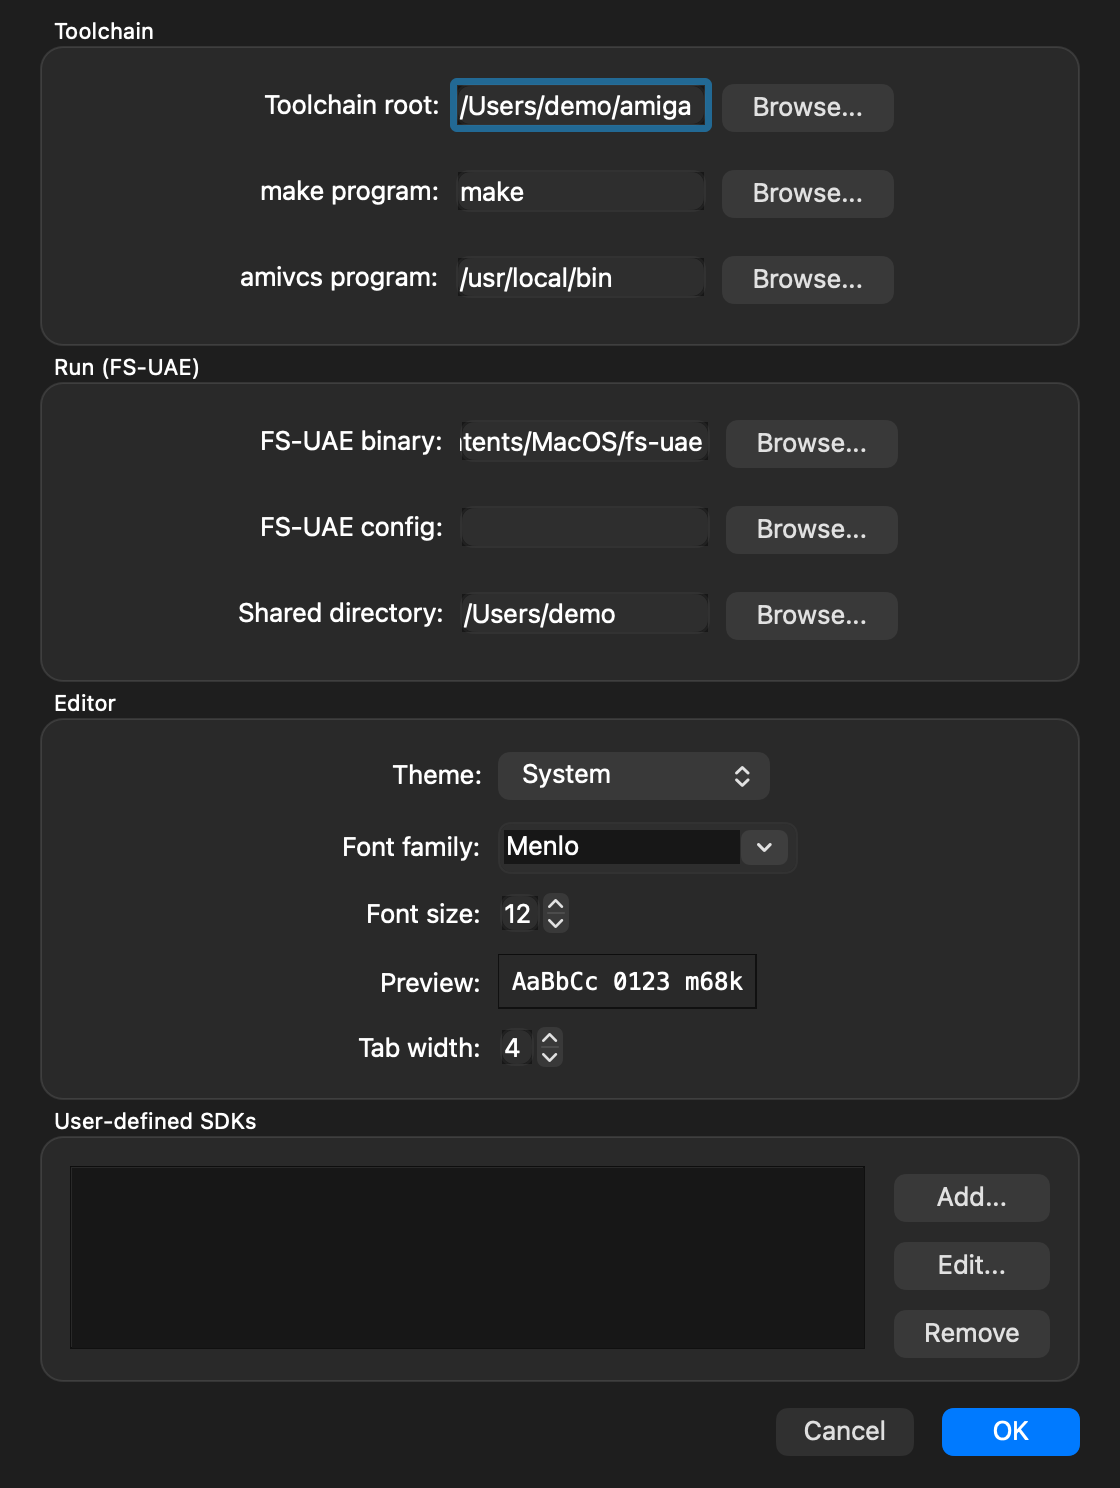
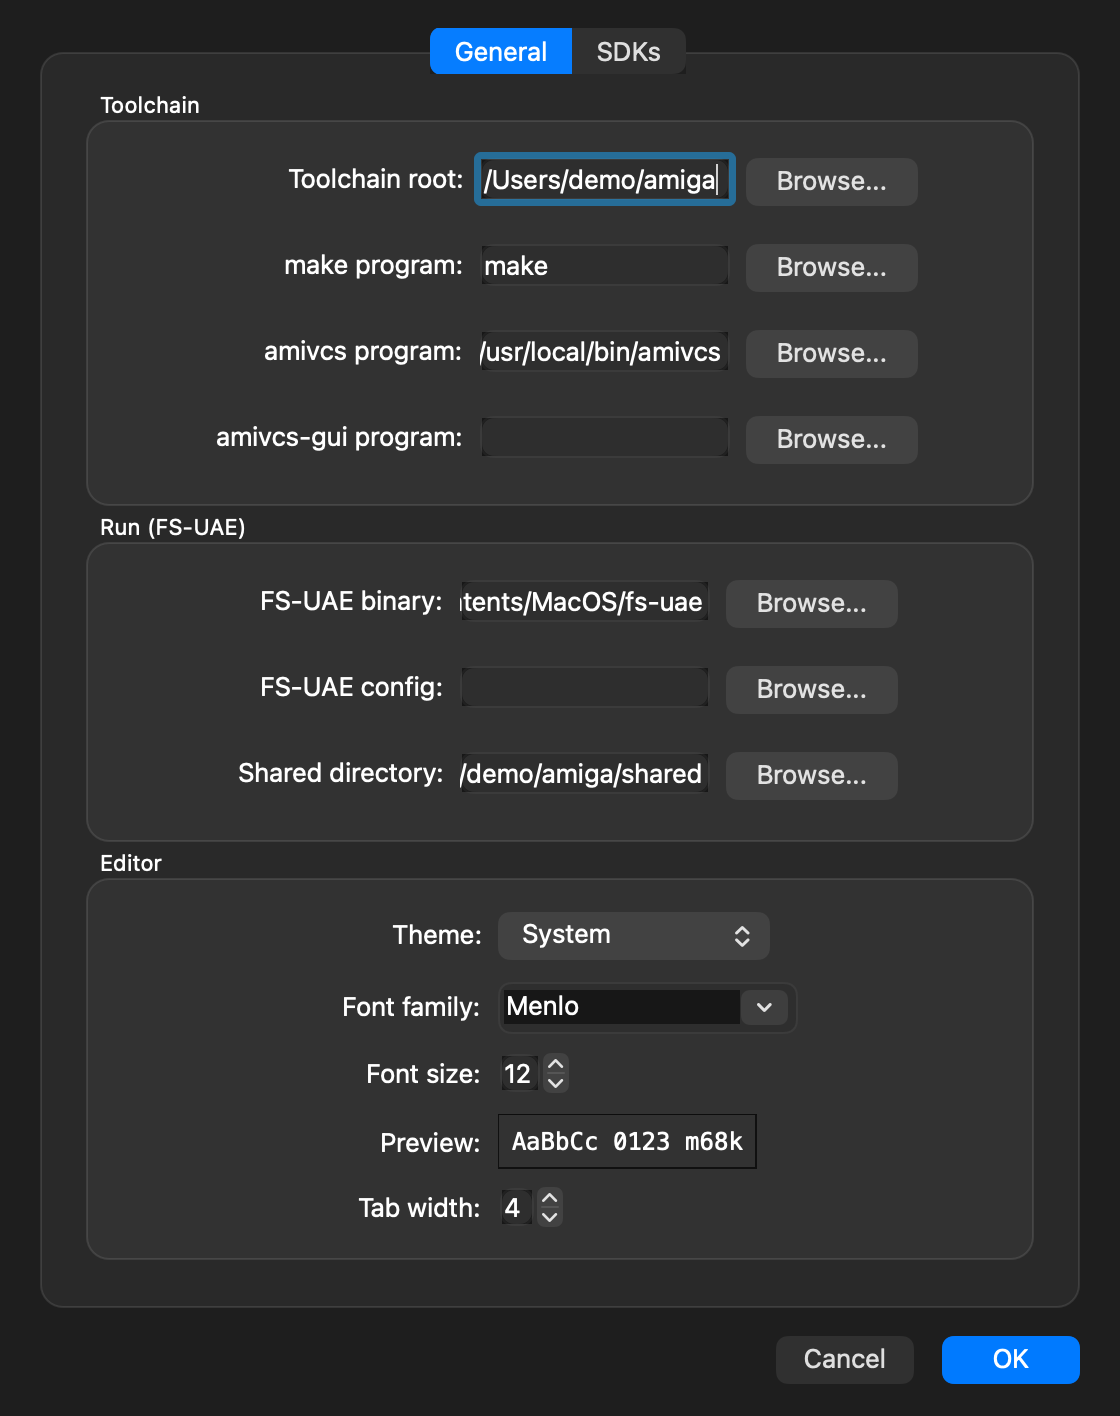
Web-Anleitung 0.11/0.6: neue Bilder amivcs-gui (Qt, Diff/History), IDE-Einstellungen mit SDK-Ordnern, Working-Fenster

diff --git a/website/src/amidevide.html b/website/src/amidevide.html
@@ -28,28 +28,29 @@ Stack 65536</code></pre></li>
 <p>Die Fassung für den Mac gibt es fertig bei den <a href="{{gh:amidevide}}/releases">Releases auf GitHub</a>, für Linux und Windows baust du sie aus den <a href="{{gh:amidevide}}">Quellen</a>. Die Bilder aus der Mac-Fassung auf dieser Seite zeigen, wie sie aussieht; die Bedienung entspricht weitgehend der Amiga-Fassung.</p>
 
 <h2 id="projekt">Ein Projekt anlegen</h2>
-<p>Die Bilder in diesem Abschnitt stammen aus der kommenden Mac-Fassung. Die Menünamen hier gelten für das Amiga-Programm.</p>
+<p>Die Bilder in diesem Abschnitt stammen aus der Mac-Fassung. Die Menünamen hier gelten für das Amiga-Programm.</p>
 <ol class="schritte">
 <li>Wähle <strong>Projekt › Neu…</strong>, dann Ordner, Sprache und Art des Programms.</li>
 <li>Füge über <strong>Projekt › Neue Datei</strong> Quelltexte hinzu. Sie erscheinen im Projektbaum links und öffnen sich mit einem Doppelklick im Editor.
 {{fig:ide-qt-haupt|Projektbaum, Editor und Ausgabe in der Mac-Fassung nach einem erfolgreichen Build.}}</li>
 <li>Unter <strong>Projekt › Projekteinstellungen…</strong> stellst du Compiler, Linker, SDKs und das Startverhalten ein.
-{{fig:ide-qt-projekt|Die Projekteinstellungen in der kommenden Mac-Fassung.}}</li>
+{{fig:ide-qt-projekt|Die Projekteinstellungen in der Mac-Fassung.}}</li>
 </ol>
-<p class="hinweis">Liegen Compiler oder SDKs woanders oder heißt <code>make</code> anders, änderst du das unter <strong>Projekt › Einstellungen…</strong>.</p>
+<p class="hinweis">Liegen Compiler oder SDKs woanders oder heißt <code>make</code> anders, änderst du das unter <strong>Projekt › Einstellungen…</strong>. Seit Version 0.6 kann jedes SDK in einem eigenen Ordner liegen (Reiter <strong>SDK-Pfade</strong>, am Mac <strong>SDKs</strong>); leer bleibt der Standardordner. <strong>Projekt › Installation prüfen</strong> zeigt auf einen Blick, ob Werkzeuge, <code>make</code>, Libraries und SDKs gefunden werden.</p>
+{{fig:ide-qt-sdk|Eigene Ordner für einzelne SDKs in der Mac-Fassung.}}
 
 <h2 id="bauen">Bauen und starten</h2>
 <ol class="schritte">
 <li><strong>Build › Build</strong> (<kbd>Amiga</kbd>+<kbd>B</kbd>) speichert, erzeugt ein Makefile und baut im Hintergrund. Die Ausgabe läuft unter <strong>Ausgabe</strong>, Fehler stehen unter <strong>Issues</strong>.
 {{fig:ide-mui|AmigaIDE auf dem Amiga nach einem erfolgreichen Build.}}</li>
 <li><strong>Memory Map</strong> zeigt danach die Hunks des Programms.
-{{fig:ide-qt-speicher|Die Memory Map in der kommenden Mac-Fassung.}}</li>
+{{fig:ide-qt-speicher|Die Memory Map in der Mac-Fassung.}}</li>
 <li><strong>Build › Run</strong> (<kbd>Amiga</kbd>+<kbd>R</kbd>) startet das Programm.</li>
 </ol>
 
 <h2 id="vcs">Versionsverwaltung</h2>
 <p>AmigaIDE benutzt AmiVCS als eigenes Programm. Ist <a href="amivcs.html">AmiVCS</a> installiert, zeigt das Register <strong>Versionen</strong> Änderungen und Branches, und <strong>Verlauf</strong> zeigt die Historie. Geänderte Dateien sind im Projektbaum markiert.</p>
-{{fig:ide-qt-vcs|Änderungen, Commit und Historie in der kommenden Mac-Fassung.}}
+{{fig:ide-qt-vcs|Änderungen, Commit und Historie in der Mac-Fassung.}}
 
 <h2 id="weiter">Mehr erfahren</h2>
 <p>Alle Menüs, Tastenkürzel, der Disassembler und die vollständige Installation stehen im <a href="amidevide-handbuch.html">vollständigen Handbuch zu AmiDevIDE {{v:amidevide}}</a>.</p>

diff --git a/website/src/amivcs.html b/website/src/amivcs.html
@@ -40,11 +40,12 @@ amivcs switch main
 amivcs merge experiment</code></pre>
 
 <h2 id="gui">Die Oberfläche</h2>
-<p>Dasselbe geht mit <strong>amivcs-gui</strong>. Links stehen die geänderten Dateien und darunter das, was in den nächsten Commit kommt, rechts der Inhalt der angeklickten Datei. Der Reiter <strong>History</strong> zeigt die Historie aller Branches. Oben stehen Branch, Repository und Remote-URL.</p>
+<p>Dasselbe geht mit <strong>amivcs-gui</strong>. Links stehen die geänderten Dateien und darunter das, was in den nächsten Commit kommt, rechts, was sich an der angeklickten Datei geändert hat (Diff: grün hinzugefügt, „-“ entfernt). Der Reiter <strong>History</strong> zeigt die Historie aller Branches. Oben stehen Branch, Repository und Remote-URL.</p>
 {{fig:vc-mui|amivcs-gui auf dem Amiga.}}
-{{fig:vc-qt-haupt|amivcs-gui in der Fassung für den Mac, hier mit gezeichnetem Commit-Graphen.}}
+{{fig:vc-qt-haupt|amivcs-gui in der Fassung für den Mac: links die Änderungen, rechts der Diff von main.c.}}
+{{fig:vc-qt-history|Der Reiter History mit gezeichnetem Commit-Graphen und den Änderungen des gewählten Commits.}}
 <ol class="schritte">
-<li>Merke Dateien mit <strong>Stage</strong> oder alle mit <strong>Stage All</strong> vor.
+<li>Merke Dateien mit <strong>Stage selected</strong> oder alle mit <strong>Stage all</strong> vor. Bei vielen Dateien zeigt ein Fenster „Working...“, welche Datei gerade dran ist; <strong>Cancel</strong> hält an, was schon vorgemerkt ist, bleibt es.
 {{fig:vc-qt-staged|Beide Dateien sind für den Commit vorgemerkt.}}</li>
 <li>Schreibe eine Nachricht und klicke auf <strong>Commit</strong>.</li>
 <li>Branches legst du über das Menü <strong>Repository</strong> an, wechselst sie dort und führst sie zusammen. Clone, Push und Pull stehen unter <strong>Remote</strong>; fehlt das Passwort, fragt ein Login-Fenster danach und merkt es sich auf Wunsch.</li>

diff --git a/website/build.py b/website/build.py
@@ -23,7 +23,7 @@ DIST = WEB / "dist"
 
 # Fuer welche Programmversion die Bilder aufgenommen wurden. Nach neuen
 # Aufnahmen hier nachziehen; solange die Zahl abweicht, warnt der Bau.
-BILDER_VERSION = {"amicloud": "0.10", "amivcs": "0.10", "amiowncloud": "0.10", "amidevide": "0.5"}
+BILDER_VERSION = {"amicloud": "0.11", "amivcs": "0.11", "amiowncloud": "0.11", "amidevide": "0.6"}
 
 PROJEKTE = {
     "amicloud": ("AmiCloud", "Eigener Cloud-Speicher"),
@@ -92,7 +92,8 @@ HANDBUCH_BILDER = {
         "installation": [("vc-install", "Der Installer von AmiVCS.")],
         "prefs": [("vc-config", "AmiVCSConfig: Name und E-Mail für alle Repositories, Remote-URL und Benutzer für dieses.")],
         "gui-mui": [("vc-mui", "amivcs-gui auf dem Amiga (MUI).")],
-        "gui-qt": [("vc-qt-haupt", "amivcs-gui auf dem Mac (Qt) mit grafischem Commit-Graphen."),
+        "gui-qt": [("vc-qt-haupt", "amivcs-gui auf dem Mac (Qt): Änderungen mit Diff der angeklickten Datei."),
+                   ("vc-qt-history", "Reiter History mit grafischem Commit-Graphen."),
                    ("vc-qt-branch", "Einen neuen Branch anlegen.")],
         "webui": [("vc-web-repos", "Die eigenen Repositories in der Weboberfläche."),
                   ("vc-web-code", "Dateibaum und README eines Repositorys."),
@@ -114,7 +115,8 @@ HANDBUCH_BILDER = {
         "node-hauptfenster": [("ide-mui", "AmigaIDE auf dem Amiga (MUI)."),
                               ("ide-qt-haupt", "Die kommende Fassung für den Mac nach einem erfolgreichen Build.")],
         "node-projekteinstellungen": [("ide-qt-projekt", "Projekteinstellungen in der kommenden Fassung für den Mac.")],
-        "node-einstellungen": [("ide-qt-einstellungen", "Globale Einstellungen in der kommenden Fassung für den Mac.")],
+        "node-einstellungen": [("ide-qt-einstellungen", "Globale Einstellungen der Fassung für den Mac, Reiter General."),
+                               ("ide-qt-sdk", "Reiter SDKs: jedes SDK kann in einem eigenen Ordner liegen.")],
         "node-versionen": [("ide-qt-vcs", "Versionsverwaltung mit AmiVCS in der kommenden Fassung für den Mac.")],
     },
 }
